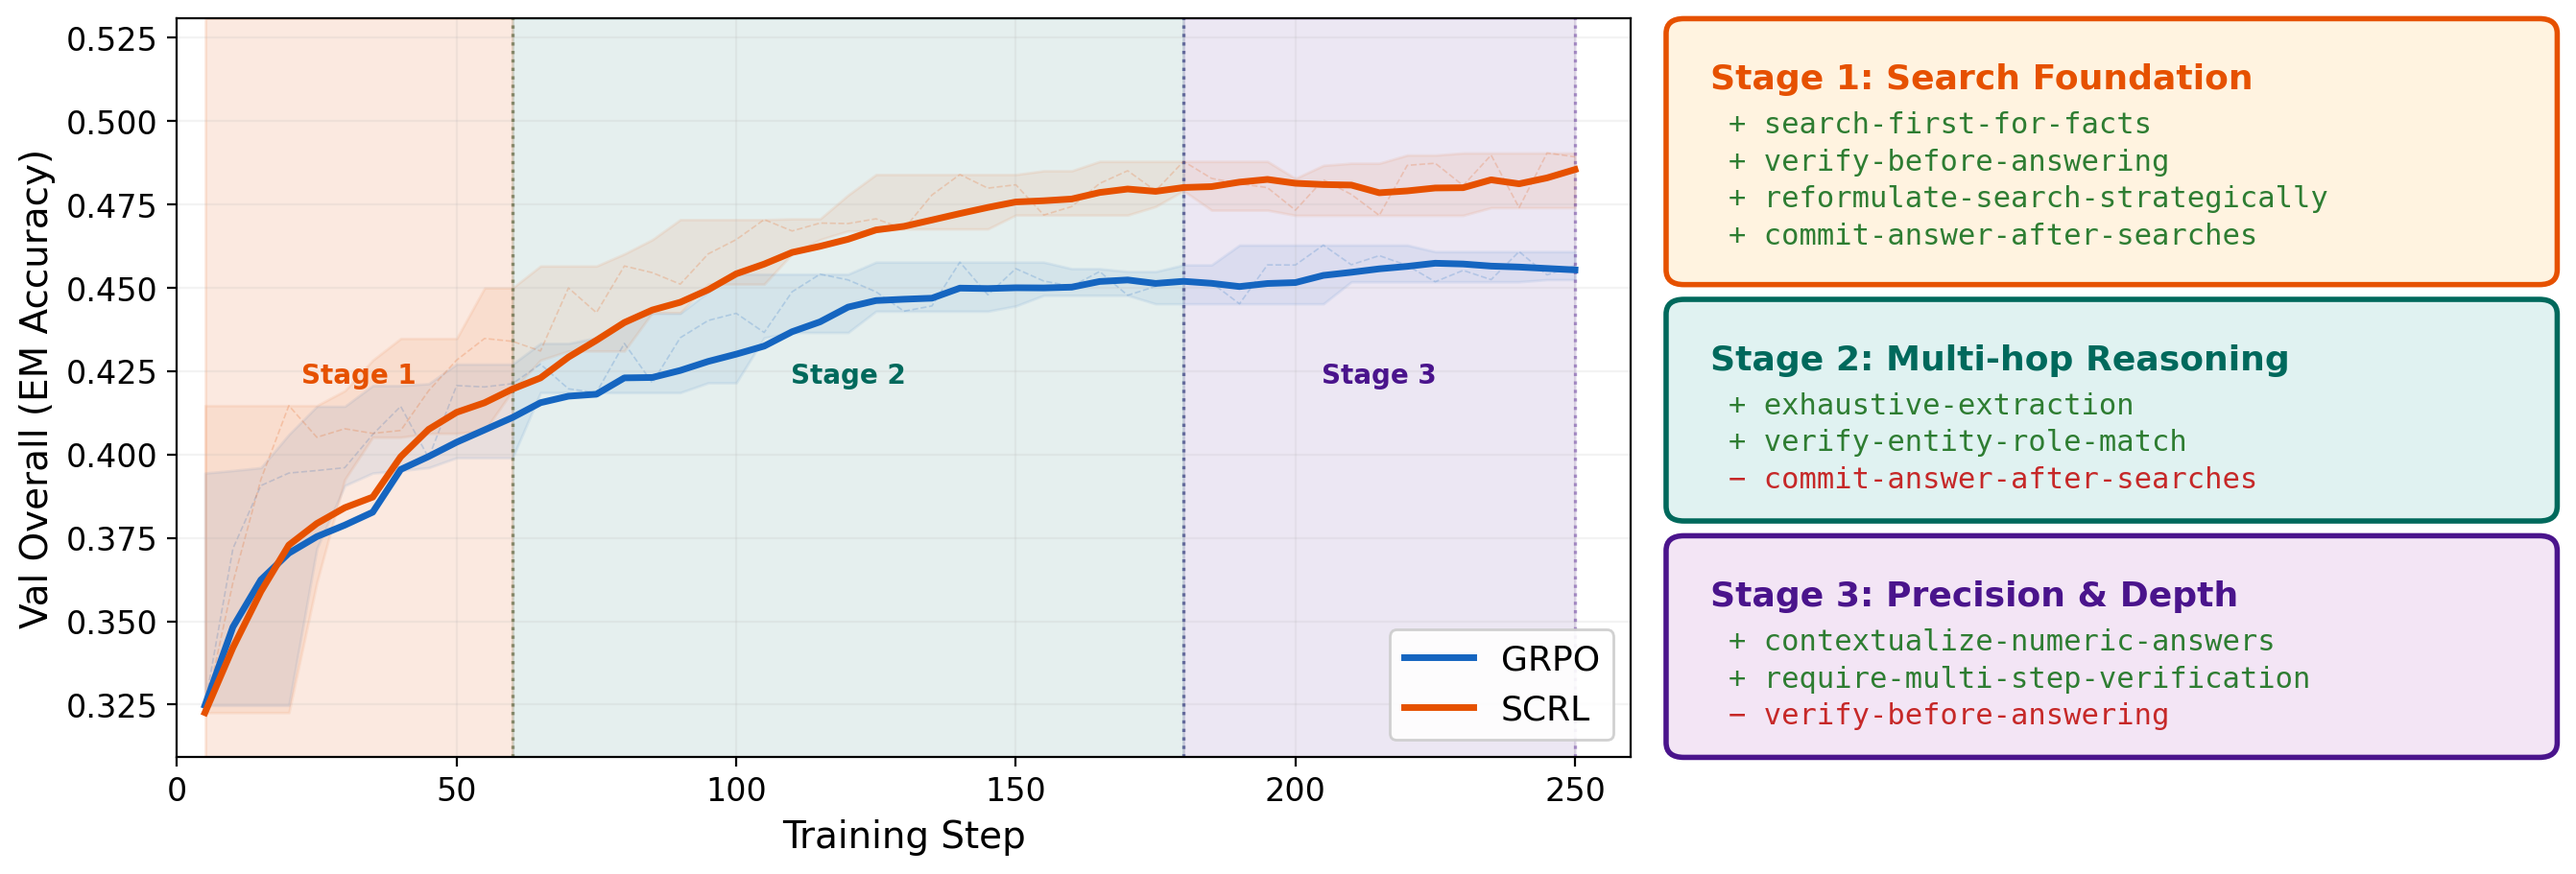
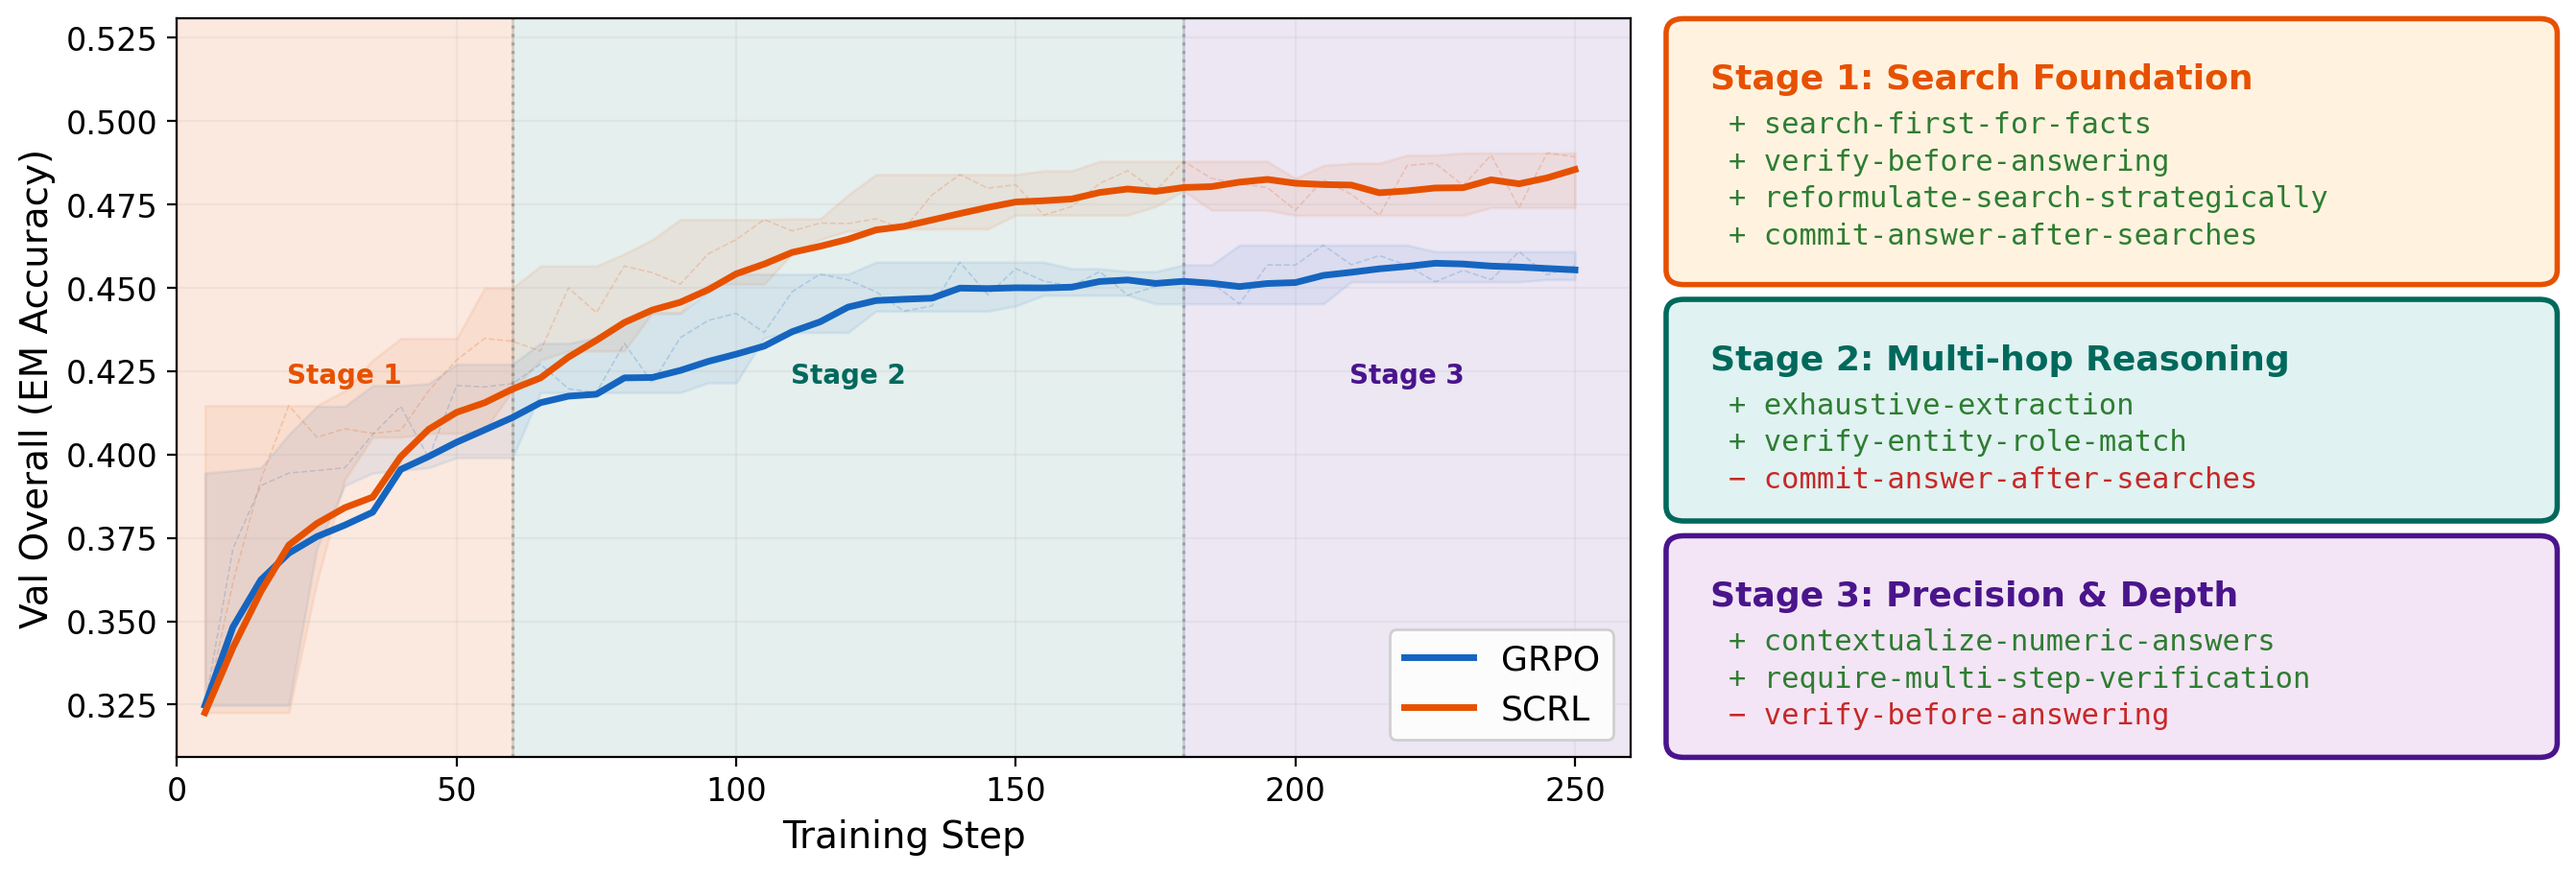
Combined skill lifecycle figure; default model convention; stage bands fill full x-axis

Changed region(s): [[0.0618, 0.0307, 0.1546, 0.8606], [0.4948, 0.3996, 0.5566, 0.461]]

diff --git a/scrl.tex b/scrl.tex
@@ -316,15 +316,8 @@ We compare \ours~against two categories of baselines. \textit{Prompt-based metho
 
 \begin{figure*}[!t]
 \centering
-\includegraphics[width=\textwidth]{figures/alfworld_skill_lifecycle.png}
-\caption{Skill-policy co-evolution on ALFWorld. Left: validation success rate for GRPO and \ours, with colored bands marking two stages of skill evolution. Right: key skill operations at each stage. Stage~1 builds the fundamental task workflow from scratch (\textcolor[HTML]{2E7D32}{+}~add). Stage~2 decomposes the broad workflow into granular navigation and container skills, then prunes skills that the policy has internalized (\textcolor[HTML]{C62828}{$-$}~delete).}
-\label{fig:alfworld_skill_lifecycle}
-\end{figure*}
-
-\begin{figure*}[!t]
-\centering
-\includegraphics[width=\textwidth]{figures/search_skill_lifecycle.png}
-\caption{Skill-policy co-evolution on Search. Left: validation EM accuracy for GRPO and \ours, with colored bands marking three stages of skill evolution. Right: key skill operations at each stage. Stage~1 builds a search workflow from scratch (\textcolor[HTML]{2E7D32}{+}~add). Stage~2 adds multi-hop reasoning and resolves design conflicts (\textcolor[HTML]{C62828}{$-$}~delete of internalized skills). Stage~3 refines output formatting and calibrates search depth.}
+\includegraphics[width=\textwidth]{figures/combined_skill_lifecycle.png}
+\caption{Skill-policy co-evolution on ALFWorld (left) and Search (right). Each pair shows the training curve (with colored stage bands) alongside key skill operations. On ALFWorld, Stage~1 builds the task workflow (\textcolor[HTML]{2E7D32}{+}~add); Stage~2 refines the library with granular navigation skills and prunes internalized ones (\textcolor[HTML]{C62828}{$-$}~delete). On Search, three stages progressively build search foundations, add multi-hop reasoning, and refine precision.}
 \label{fig:skill_lifecycle}
 \end{figure*}
 
